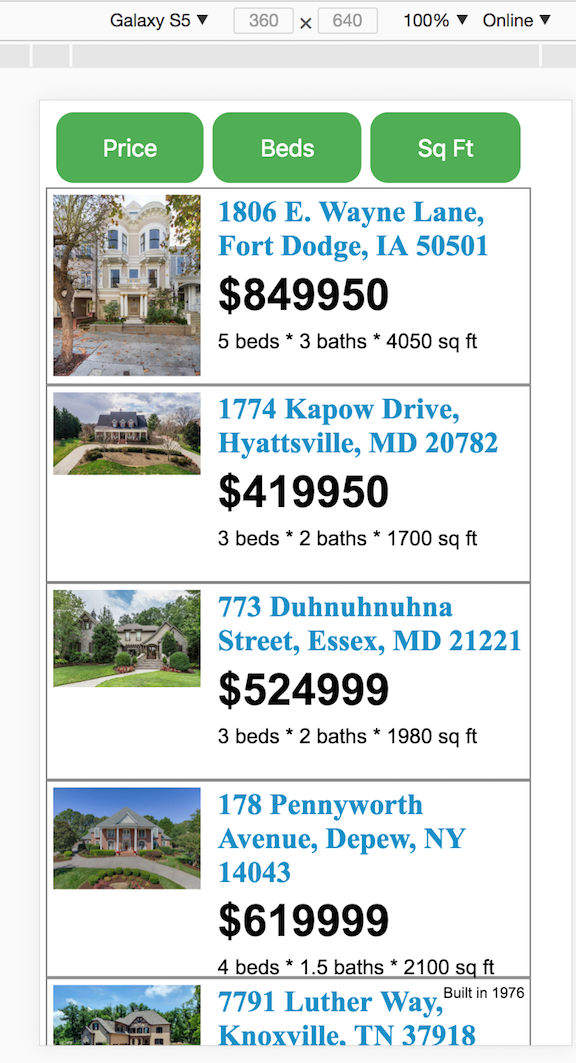
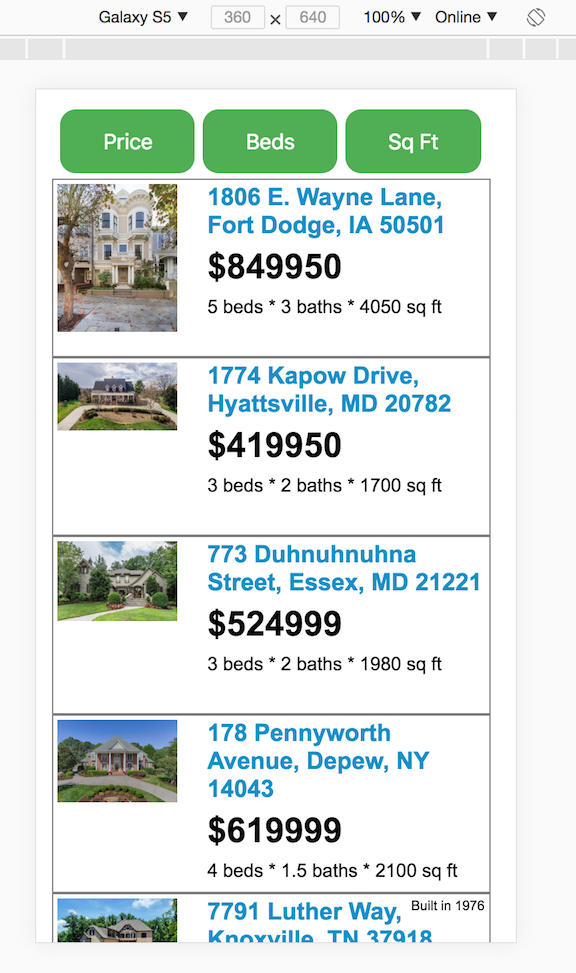
update fonts, responsive sizes and screen shots

Changed region(s): [[0.0625, 0.0925, 0.9375, 0.9866], [0.1562, 0.0, 0.9688, 0.0308]]

diff --git a/src/index.css b/src/index.css
@@ -1,12 +1,6 @@
-body {
-  margin: 0;
-  padding: 0;
-  font-size: 16px;
-  font-family: Arial, Helvetica, sans-serif;
-}
-
 .listing-container {
   display: inline-block;
+  font-family: Arial, Helvetica, sans-serif;
   width: 100%;
   max-width: 750px;
   padding: 4px;
@@ -26,6 +20,7 @@ body {
 .house-img {
   float: left;
   height: 125px;
+  width: 100px;
 }
 
 .house-data {
@@ -51,7 +46,6 @@ body {
 
 .address {
   font-size: 20px;
-  font-family: "Times New Roman";
   font-weight: 600;
   color: #008fca;
 }
@@ -72,16 +66,14 @@ body {
   padding: 1%;
 }
  
-/* @media all and (max-width: 768px) and (min-width: 480px) {
-  body{
-      font-size: 16px;
+@media screen and (max-width: 768px) {
+  .address {
+      font-size: 18px;
+  }
+  .price {
+    font-size: 26px;
+  }
+  .house-img {
+    width: 90px;
   }
 }
- 
-@media all and (max-width: 480px) and (min-width: 320px) {
-  body{
-      font-size: 14px;
-  }
-} */
-
-

diff --git a/src/components/Listing.jsx b/src/components/Listing.jsx
@@ -22,7 +22,7 @@ export default class Listing extends Component {
         return (
         <div className="listing">
         <div className="house-img">
-            <a href={url}><img src={img} width="100px" alt="house"></img></a>
+            <a href={url}><img src={img} width="100%" alt="house"></img></a>
         </div>
         {this.renderBuildData(built)}
         <div className="house-data">

diff --git a/README.md b/README.md
@@ -18,10 +18,10 @@ iPad:
 
 ![Alt text](img_ipad.png?raw=true "ipad image")  
 
-iPhone 8 Plus:  
+iPhone Plus:  
 
 ![Alt text](img_iphone.png?raw=true "iphone plus image")  
 
-Galaxy S5:  
+Galaxy:  
 
-![Alt text](img_galaxy.png?raw=true "Galaxy s5 image")  
+![Alt text](img_galaxy.png?raw=true "Galaxy image")  
